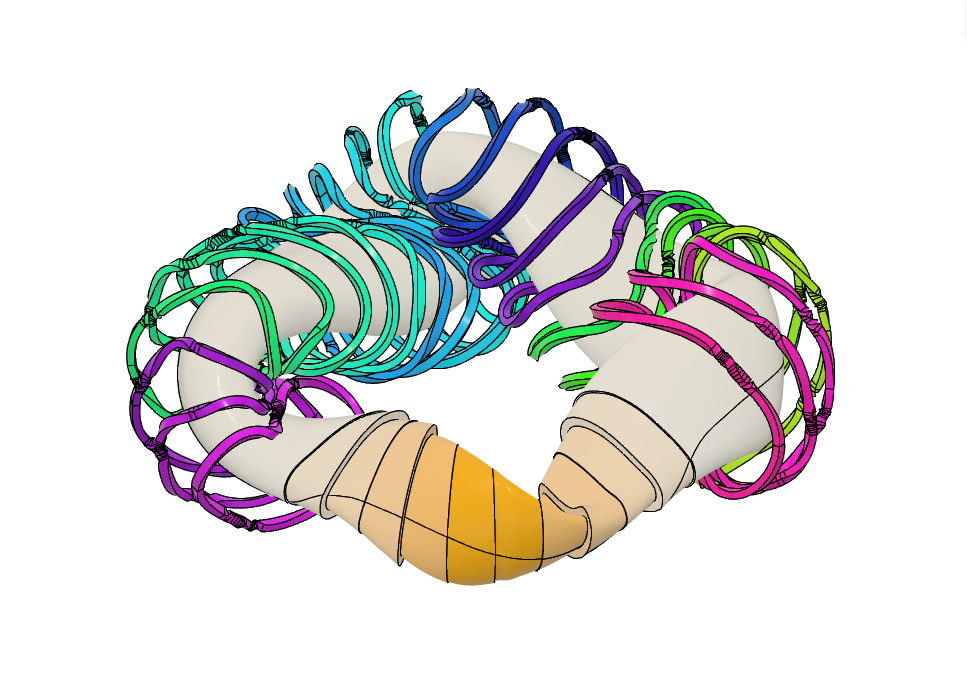
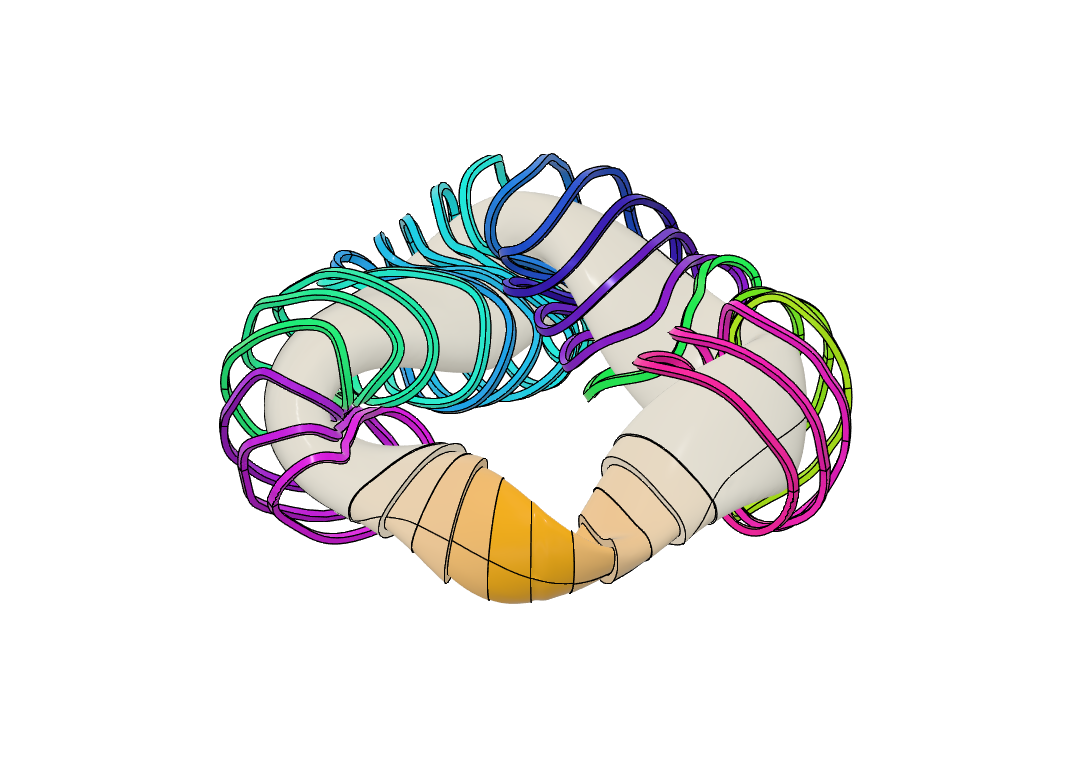
update_image

Changed region(s): [[0.1241, 0.1233, 0.8687, 0.8634]]

diff --git a/src/magnet.rs b/src/magnet.rs
@@ -180,11 +180,17 @@ fn build_one(raw_pts: &[DVec3], width: f64, thickness: f64) -> Result<(Solid, Ve
 	// sweep 中、profile の tracked axis がこの方向を追うため、parastell の
 	// 「全点で COM 基準の normal/binormal を構築」と等価なフレーム制御になる。
 	// AUX_SCALE は向きの決定には無関係 (>1 であればよい); 数値安定性のため 1.1。
-	const AUX_SCALE: f64 = 1.1;
+	const AUX_SCALE: f64 = 0.9;
 	let com: DVec3 = spine_pts.iter().copied().sum::<DVec3>() / (spine_pts.len() as f64);
 	let aux_pts: Vec<DVec3> = spine_pts
 		.iter()
-		.map(|p| com + (*p - com) * AUX_SCALE)
+		.map(|p| {
+			let (point, tangent) = spine.project(*p);
+			let aux_raw = com + (*p - com) * AUX_SCALE;
+			// aux - point を接線方向成分を除いた法線面内に射影し、(aux - point)·tangent = 0 にする。
+			let aux = aux_raw - tangent * tangent.dot(aux_raw - point);
+			point + (aux - point).normalize() * thickness
+		})
 		.collect();
 	let aux_spine = Edge::bspline(&aux_pts, BSplineEnd::NotAKnot)
 		.map_err(|e| format!("aux bspline failed: {:?}", e))?;
@@ -218,6 +224,7 @@ fn build_one(raw_pts: &[DVec3], width: f64, thickness: f64) -> Result<(Solid, Ve
 		dump_pts.push(e.start_point());
 	}
 	dump_pts.extend_from_slice(&spine_pts);
+	dump_pts.extend_from_slice(&aux_pts);
 
 	// (e) sweep。Auxiliary(aux_spine) で profile の tracked axis を各点で
 	// 「コイル COM → spine 点」方向に向ける。Torsion (Frenet-Serret) が
@@ -226,8 +233,8 @@ fn build_one(raw_pts: &[DVec3], width: f64, thickness: f64) -> Result<(Solid, Ve
 	let coil = Solid::sweep(
 		profile.iter(),
 		std::iter::once(&spine),
-		ProfileOrient::Torsion
-		//ProfileOrient::Auxiliary(&[aux_spine]),
+		//ProfileOrient::Torsion
+		ProfileOrient::Auxiliary(&[aux_spine]),
 	)
 	.map_err(|e| format!("sweep failed: {:?}", e))?;
 
